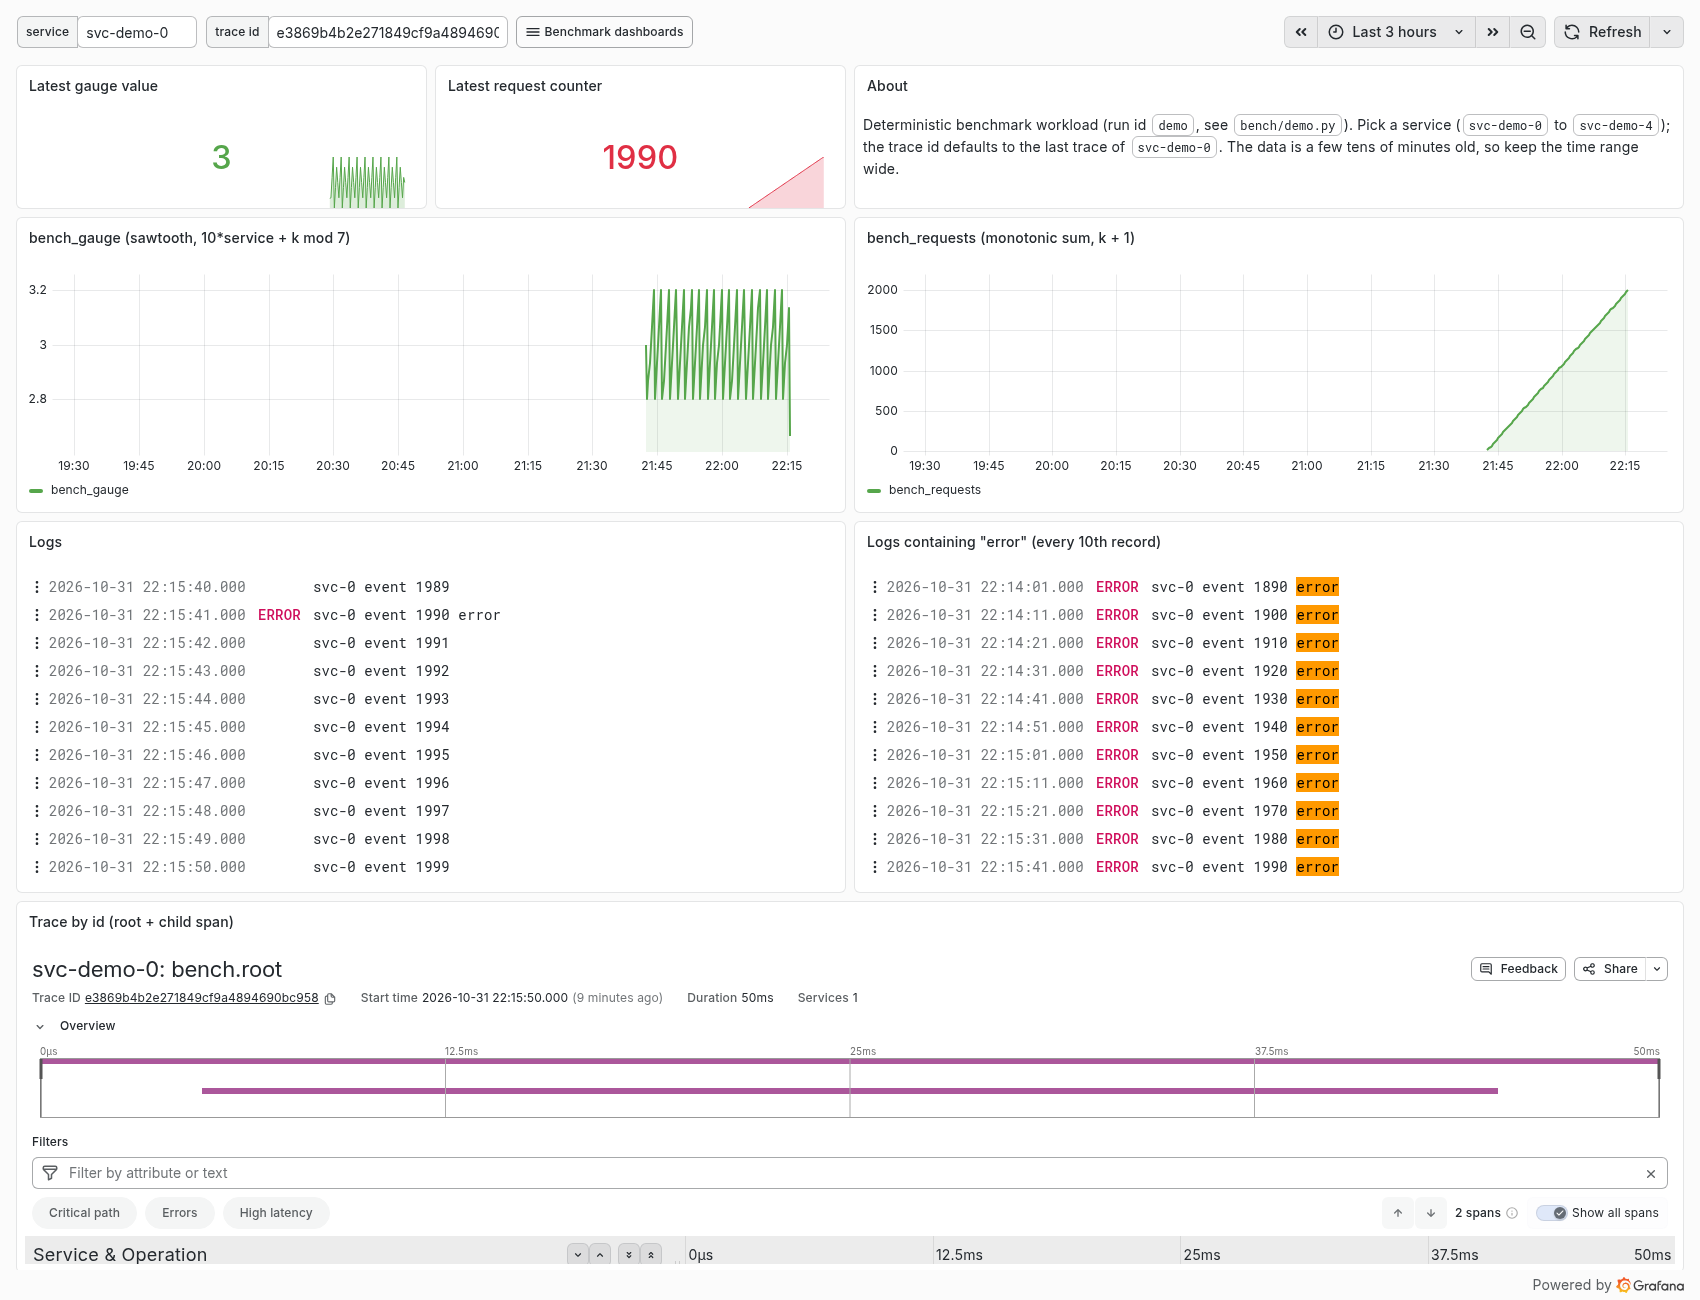
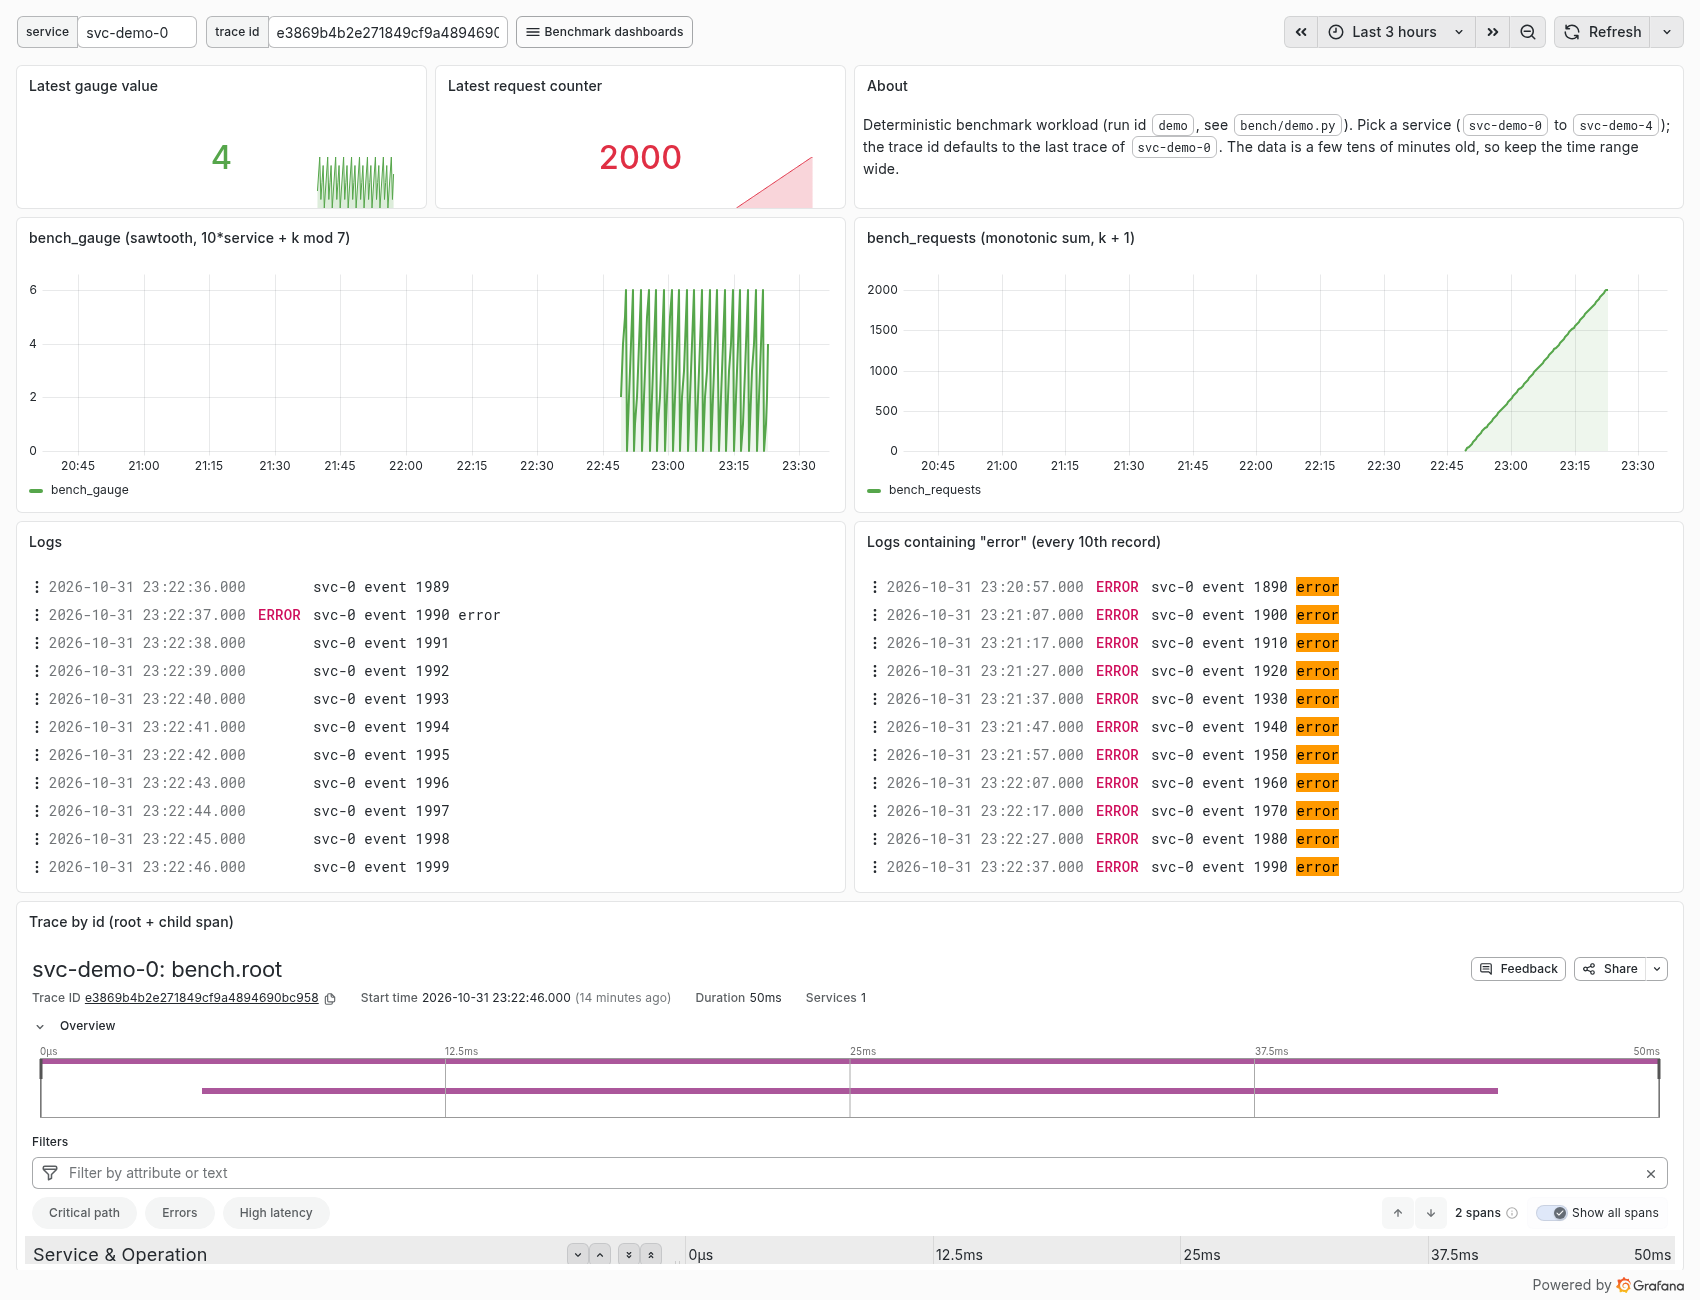
feat(bench): check range-query values, not just point counts
gauge_range_max runs a 15 s step range query over the sawtooth gauge and requires
the true peak. A stack that averages each bucket instead of taking the newest
sample cannot reach it, which is the bug the point-count check missed. Refresh
the canardstack dashboard screenshots now that the gauge draws correctly.

diff --git a/bench/backends.py b/bench/backends.py
@@ -65,6 +65,15 @@ def prom_range_points(body: str) -> Optional[float]:
     return float(sum(len(s["values"]) for s in data["data"]["result"]))
 
 
+def prom_range_max(body: str) -> Optional[float]:
+    """Largest value over every point of every series in a range response."""
+    data = json.loads(body)
+    if data.get("status") != "success":
+        return None
+    values = [float(v[1]) for s in data["data"]["result"] for v in s["values"]]
+    return max(values) if values else None
+
+
 def tempo_spans(body: str) -> Optional[float]:
     data = json.loads(body)
     batches = data.get("batches") or data.get("trace", {}).get("resourceSpans") or []
@@ -112,7 +121,18 @@ def _prom_queries(base: str, label: str, prefix: str, headers: Dict[str, str]) -
             headers,
         )
 
+    def coarse_points(w: Workload, i: int):
+        # A 15 s step spans 15 samples per bucket, so a stack that averages a bucket instead of
+        # taking the newest sample cannot reach the sawtooth peak.
+        return (
+            f"{base}{prefix}/api/v1/query_range?start={w.base_ns // 10**9}&end={_last(w)}&step=15"
+            f"&query={q(sel('bench_gauge', i, w))}",
+            headers,
+        )
+
     return [
+        Query("gauge_range_max", "metrics", coarse_points, prom_range_max,
+              lambda w, i: w.expected(i)["gauge_range_max"]),
         Query("gauge_last", "metrics", instant("bench_gauge", "max"), prom_instant,
               lambda w, i: w.expected(i)["gauge_last"]),
         Query("sum_last", "metrics", instant("bench_requests", "max"), prom_instant,

diff --git a/bench/workload.py b/bench/workload.py
@@ -62,6 +62,9 @@ class Workload:
             "log_count": self.query_limit,
             "log_error_count": sum(1 for k in ks if k % 10 == 0),
             "gauge_last": self.gauge_value(i, self.records - 1),
+            # Peak of the sawtooth seen by a 15 s step range query: every residue of k mod 7 is
+            # sampled once there are at least 7 steps (records >= 105).
+            "gauge_range_max": max(self.gauge_value(i, k) for k in range(0, self.records, 15)),
             "gauge_count": self.records,
             "sum_last": self.sum_value(self.records - 1),
             "trace_spans": 2,

diff --git a/bench/README.md b/bench/README.md
@@ -39,9 +39,7 @@ pick up changes through the bind mount. Screenshots from the image renderer are 
 `bench/grafana/screenshots/`.
 
 The demo stacks use the same host ports as the benchmark profiles, so do not run `demo.py` while a
-benchmark is running. canardstack's Loki and Tempo datasources report errors under "Save & test":
-Grafana's health probes call endpoints canardstack does not implement (a Loki metric query and
-`/api/echo`). The panels themselves query canardstack normally.
+benchmark is running.
 
 ## What is measured
 
@@ -58,8 +56,9 @@ latency percentiles. Each run uses a unique run id in service names and trace id
 reused stack cannot mix datasets.
 
 Query intents (`backends.py`): `log_lines`, `log_error_lines` (text filter), `gauge_last`
-and `sum_last` (instant at the last sample), `gauge_points` (1 s range query), and
-`trace_by_id`. They are limited to what canardstack supports (no `count_over_time`, no
+and `sum_last` (instant at the last sample), `gauge_points` (1 s range query, point count),
+`gauge_range_max` (15 s step range query; must reach the true sawtooth peak, which averaging a
+bucket cannot), and `trace_by_id`. They are limited to what canardstack supports (no `count_over_time`, no
 TraceQL). Each stack uses its native dialect: LogQL (Loki, canardstack), LogsQL
 (VictoriaLogs), PromQL/MetricsQL, Tempo and Jaeger trace APIs.
 
